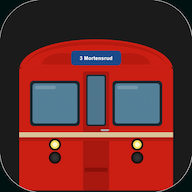
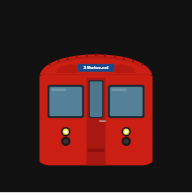
Ytelsesoptimalisering: loading-skjeletter, auth-cache, indekser + nye ikoner
- Loading-skjeletter for forside, arrangement-detalj og statistikk
- React cache() for getUser/getProfil — eliminerer doble DB-kall
- DB-indekser på mest brukte kolonner (start_tidspunkt, arrangement_id m.fl.)
- Safe-area padding på bottom nav for iPhone
- viewport-fit: cover for Safari safe-area-insets
- Nye ikonfiler (192, 512, 2000)
- Fiks: fjern referanse til ikke-eksisterende tabell i migrasjon 013

diff --git a/app/(app)/klubbinfo/statistikk/loading.tsx b/app/(app)/klubbinfo/statistikk/loading.tsx
@@ -1,0 +1,28 @@
+export default function Loading() {
+  return (
+    <div className="max-w-lg mx-auto px-4 pt-6 pb-8">
+      <div className="flex items-center gap-3 mb-6">
+        <div className="h-4 w-16 rounded animate-pulse" style={{ background: 'var(--border)' }} />
+        <div className="h-7 w-24 rounded-lg animate-pulse" style={{ background: 'var(--border)' }} />
+      </div>
+      <div className="grid grid-cols-2 gap-3 mb-8">
+        {[1, 2].map(i => (
+          <div key={i} className="rounded-xl p-4 animate-pulse" style={{ background: 'var(--bakgrunn-kort)', border: '1px solid var(--border)' }}>
+            <div className="h-8 w-12 rounded mx-auto mb-2" style={{ background: 'var(--border)' }} />
+            <div className="h-3 w-20 rounded mx-auto" style={{ background: 'var(--border)' }} />
+          </div>
+        ))}
+      </div>
+      <div className="h-4 w-20 rounded mb-3 animate-pulse" style={{ background: 'var(--border)' }} />
+      <div className="rounded-xl overflow-hidden" style={{ border: '1px solid var(--border)' }}>
+        {[...Array(6)].map((_, i) => (
+          <div key={i} className="grid grid-cols-4 px-4 py-2.5 animate-pulse" style={{ borderTop: i > 0 ? '1px solid var(--border)' : undefined }}>
+            <div className="col-span-2 h-4 w-24 rounded" style={{ background: 'var(--border)' }} />
+            <div className="h-4 w-6 rounded ml-auto" style={{ background: 'var(--border)' }} />
+            <div className="h-4 w-6 rounded ml-auto" style={{ background: 'var(--border)' }} />
+          </div>
+        ))}
+      </div>
+    </div>
+  )
+}

diff --git a/app/(app)/arrangementer/[id]/loading.tsx b/app/(app)/arrangementer/[id]/loading.tsx
@@ -1,0 +1,28 @@
+export default function Loading() {
+  return (
+    <div className="max-w-lg mx-auto px-4 pt-6 pb-8">
+      <div className="flex items-center justify-between mb-5">
+        <div className="h-4 w-16 rounded animate-pulse" style={{ background: 'var(--border)' }} />
+      </div>
+      <div className="h-5 w-12 rounded-full mb-2 animate-pulse" style={{ background: 'var(--border)' }} />
+      <div className="h-8 w-3/4 rounded-lg mb-4 animate-pulse" style={{ background: 'var(--border)' }} />
+      <div className="space-y-2 mb-5">
+        <div className="h-4 w-2/3 rounded animate-pulse" style={{ background: 'var(--border)' }} />
+        <div className="h-4 w-1/2 rounded animate-pulse" style={{ background: 'var(--border)' }} />
+      </div>
+      <div className="flex gap-2 mb-6">
+        {[1, 2, 3].map(i => (
+          <div key={i} className="h-10 flex-1 rounded-xl animate-pulse" style={{ background: 'var(--border)' }} />
+        ))}
+      </div>
+      <div className="space-y-3">
+        <div className="h-4 w-24 rounded animate-pulse" style={{ background: 'var(--border)' }} />
+        <div className="flex flex-wrap gap-2">
+          {[1, 2, 3, 4].map(i => (
+            <div key={i} className="h-8 w-20 rounded-lg animate-pulse" style={{ background: 'var(--border)' }} />
+          ))}
+        </div>
+      </div>
+    </div>
+  )
+}

diff --git a/app/(app)/arrangementer/[id]/page.tsx b/app/(app)/arrangementer/[id]/page.tsx
@@ -1,4 +1,5 @@
 import { createServerClient } from '@/lib/supabase/server'
+import { getInnloggetBruker, getProfil } from '@/lib/auth-cache'
 import { notFound } from 'next/navigation'
 import { format } from 'date-fns'
 import { nb } from 'date-fns/locale'
@@ -9,7 +10,7 @@ import SladdetFelt from '@/components/SladdetFelt'
 export default async function ArrangementDetaljer({ params }: { params: Promise<{ id: string }> }) {
   const { id } = await params
   const supabase = await createServerClient()
-  const { data: { user } } = await supabase.auth.getUser()
+  const user = await getInnloggetBruker()
 
   const { data: arr } = await supabase
     .from('arrangementer')
@@ -23,12 +24,7 @@ export default async function ArrangementDetaljer({ params }: { params: Promise<
 
   if (!arr) notFound()
 
-  const { data: profil } = await supabase
-    .from('profiles')
-    .select('rolle')
-    .eq('id', user!.id)
-    .single()
-
+  const profil = await getProfil()
   const erAdmin = profil?.rolle === 'admin'
   const kanRedigere = arr.opprettet_av === user!.id || erAdmin
   const erTur = arr.type === 'tur'

diff --git a/app/(app)/loading.tsx b/app/(app)/loading.tsx
@@ -1,0 +1,19 @@
+export default function Loading() {
+  return (
+    <div className="max-w-lg mx-auto px-4 pt-6 pb-4">
+      <div className="flex items-center justify-between mb-6">
+        <div className="h-7 w-36 rounded-lg animate-pulse" style={{ background: 'var(--border)' }} />
+        <div className="h-8 w-16 rounded-lg animate-pulse" style={{ background: 'var(--border)' }} />
+      </div>
+      <div className="space-y-4">
+        {[1, 2, 3].map(i => (
+          <div key={i} className="rounded-xl p-4 animate-pulse" style={{ background: 'var(--bakgrunn-kort)', border: '1px solid var(--border)' }}>
+            <div className="h-4 w-1/4 rounded mb-2" style={{ background: 'var(--border)' }} />
+            <div className="h-5 w-2/3 rounded mb-3" style={{ background: 'var(--border)' }} />
+            <div className="h-3 w-1/2 rounded" style={{ background: 'var(--border)' }} />
+          </div>
+        ))}
+      </div>
+    </div>
+  )
+}

diff --git a/app/(app)/layout.tsx b/app/(app)/layout.tsx
@@ -1,21 +1,15 @@
 import BottomNav from '@/components/BottomNav'
 import SkyBakgrunn from '@/components/SkyBakgrunn'
 import ServiceWorkerRegistrering from '@/components/ServiceWorkerRegistrering'
-import { createServerClient } from '@/lib/supabase/server'
+import { getInnloggetBruker, getProfil } from '@/lib/auth-cache'
 import { redirect } from 'next/navigation'
 
 export default async function AppLayout({ children }: { children: React.ReactNode }) {
-  const supabase = await createServerClient()
-  const { data: { user } } = await supabase.auth.getUser()
+  const user = await getInnloggetBruker()
 
   if (!user) redirect('/login')
 
-  const { data: profil } = await supabase
-    .from('profiles')
-    .select('rolle')
-    .eq('id', user.id)
-    .single()
-
+  const profil = await getProfil()
   const erAdmin = profil?.rolle === 'admin'
 
   return (

diff --git a/app/(app)/arrangoransvar/page.tsx b/app/(app)/arrangoransvar/page.tsx
@@ -1,12 +1,13 @@
 import { createServerClient } from '@/lib/supabase/server'
+import { getInnloggetBruker, getProfil } from '@/lib/auth-cache'
 import Link from 'next/link'
 import AnsvarAdmin from './AnsvarAdmin'
 
 export default async function Arrangoransvar() {
   const supabase = await createServerClient()
-  const { data: { user } } = await supabase.auth.getUser()
+  const user = await getInnloggetBruker()
 
-  const { data: profil } = await supabase.from('profiles').select('rolle').eq('id', user!.id).single()
+  const profil = await getProfil()
   const erAdmin = profil?.rolle === 'admin'
 
   const innevaerendeAar = new Date().getFullYear()

diff --git a/lib/auth-cache.ts b/lib/auth-cache.ts
@@ -1,0 +1,20 @@
+import { cache } from 'react'
+import { createServerClient } from '@/lib/supabase/server'
+
+export const getInnloggetBruker = cache(async () => {
+  const supabase = await createServerClient()
+  const { data: { user } } = await supabase.auth.getUser()
+  return user
+})
+
+export const getProfil = cache(async () => {
+  const supabase = await createServerClient()
+  const user = await getInnloggetBruker()
+  if (!user) return null
+  const { data } = await supabase
+    .from('profiles')
+    .select('rolle')
+    .eq('id', user.id)
+    .single()
+  return data
+})

diff --git a/app/(app)/klubbinfo/medlemmer/page.tsx b/app/(app)/klubbinfo/medlemmer/page.tsx
@@ -1,11 +1,11 @@
 import { createServerClient } from '@/lib/supabase/server'
+import { getProfil } from '@/lib/auth-cache'
 import Link from 'next/link'
 
 export default async function Medlemmer() {
   const supabase = await createServerClient()
-  const { data: { user } } = await supabase.auth.getUser()
 
-  const { data: profil } = await supabase.from('profiles').select('rolle').eq('id', user!.id).single()
+  const profil = await getProfil()
   const erAdmin = profil?.rolle === 'admin'
 
   const { data: medlemmer } = await supabase

diff --git a/components/BottomNav.tsx b/components/BottomNav.tsx
@@ -38,7 +38,7 @@ export default function BottomNav({ erAdmin }: { erAdmin: boolean }) {
 
   return (
     <nav className="fixed bottom-0 left-0 right-0 z-50" style={{ background: '#161616', borderTop: '1px solid var(--border)' }}>
-      <div className="flex">
+      <div className="flex" style={{ paddingBottom: 'env(safe-area-inset-bottom, 0px)' }}>
         {tabs.map((tab) => {
           const aktiv = tab.href === '/'
             ? pathname === '/'

diff --git a/app/layout.tsx b/app/layout.tsx
@@ -1,4 +1,4 @@
-import type { Metadata } from 'next'
+import type { Metadata, Viewport } from 'next'
 import { Barlow } from 'next/font/google'
 import './globals.css'
 
@@ -7,6 +7,10 @@ const barlow = Barlow({
   weight: ['400', '600', '700', '800', '900'],
   variable: '--font-barlow',
 })
+
+export const viewport: Viewport = {
+  viewportFit: 'cover',
+}
 
 export const metadata: Metadata = {
   title: 'Mortensrud Herreklubb',
